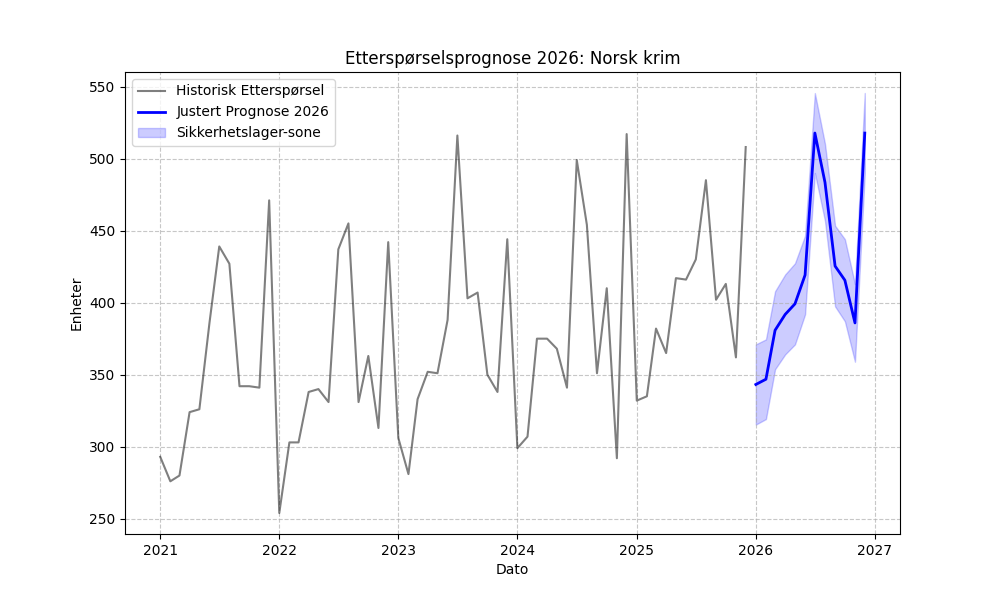
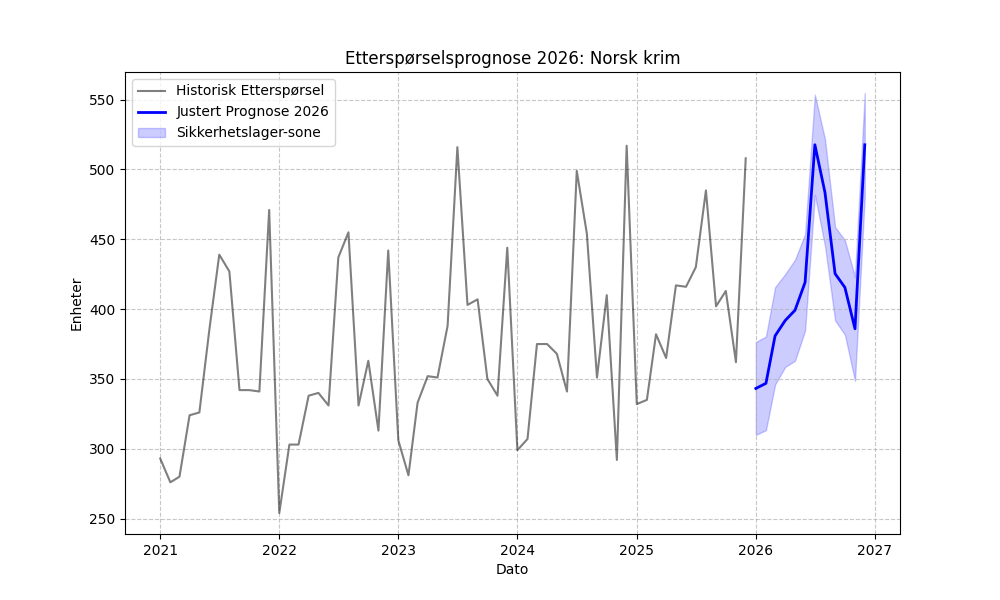
3.11 ferdig med claude, og 3.12 harmonisert med 3.11

diff --git a/004 data/python_skript/scenario_analysis_3_12.py b/004 data/python_skript/scenario_analysis_3_12.py
@@ -16,12 +16,14 @@ if not os.path.exists(OUTPUT_DIR):
 
 # 2. Last inn data
 df = pd.read_csv(DATA_PATH)
+campaigns_df = pd.read_csv(CAMPAIGN_PATH)
 rules_df = pd.read_csv(RULES_PATH)
 
 # Konverter til datetime
 df['ds'] = pd.to_datetime(df['Dato_Sortering'])
+campaigns_df['ds'] = pd.to_datetime(campaigns_df['Dato_Sortering'])
 
-# 3. Definer Helligdager (Prophet-standard)
+# 3. Definer Helligdager og Kampanjer (samme oppsett som 3.11 for at baseline skal være konsistent)
 no_holidays = holidays.Norway(years=[2021, 2022, 2023, 2024, 2025, 2026])
 christmas_dates = [pd.to_datetime(f"{year}-12-01") for year in range(2021, 2027)]
 holidays_df = pd.DataFrame({
@@ -30,6 +32,25 @@ holidays_df = pd.DataFrame({
   'lower_window': 0,
   'upper_window': 0,
 })
+
+easter_dates = []
+for h_date, name in no_holidays.items():
+    if 'Påskedag' in name and 'Andre' not in name:
+        easter_dates.append(pd.to_datetime(f"{h_date.year}-{h_date.month:02d}-01"))
+
+easter_df = pd.DataFrame({
+  'holiday': 'easter',
+  'ds': list(set(easter_dates)),
+  'lower_window': 0,
+  'upper_window': 0,
+})
+
+detected_campaigns = campaigns_df[campaigns_df['Er_Kampanje'] == True][['ds', 'Kategori']].copy()
+detected_campaigns['holiday'] = 'promo_' + detected_campaigns['Kategori'].str.replace(' ', '_')
+detected_campaigns['lower_window'] = 0
+detected_campaigns['upper_window'] = 0
+
+all_holidays = pd.concat([holidays_df, easter_df, detected_campaigns[['holiday', 'ds', 'lower_window', 'upper_window']]])
 
 # 4. Scenario-simulering
 categories = df['Kategori'].unique()
@@ -40,8 +61,13 @@ for cat in categories:
     cat_df = df[df['Kategori'] == cat].copy()
     cat_df = cat_df.rename(columns={'Etterspørsel': 'y'})
     
-    # Tren Baseline Modell
-    model = Prophet(holidays=holidays_df, yearly_seasonality=True)
+    # Tren Baseline Modell (samme konfig som 3.11)
+    model = Prophet(holidays=all_holidays,
+                    yearly_seasonality=True,
+                    weekly_seasonality=False,
+                    daily_seasonality=False,
+                    changepoint_prior_scale=0.05,
+                    interval_width=0.90)
     model.fit(cat_df)
     
     future = model.make_future_dataframe(periods=12, freq='MS')
@@ -58,8 +84,10 @@ for cat in categories:
     lift_base = rule['Gjennomsnittlig_Kampanjeloft']
     
     # --- SCENARIO 0: Baseline ---
+    # Sigma estimeres fra Prophets 90%-intervall: (yhat_upper - yhat) / 1.645.
+    # Identisk med 3.11 slik at baseline-Order_Up_To er sammenfallende.
     f26['y_base'] = f26['yhat'] + bias
-    f26['ss_base'] = (f26['yhat_upper'] - f26['yhat']) * (k_base / 1.65)
+    f26['ss_base'] = (f26['yhat_upper'] - f26['yhat']) * (k_base / 1.645)
     f26['out_base'] = f26['y_base'] + f26['ss_base']
     
     # --- SCENARIO 1: Kampanje-sjokk (+50% ekstra løft i Des og Mai) ---

diff --git a/004 data/python_skript/forecast_2026_3_11.py b/004 data/python_skript/forecast_2026_3_11.py
@@ -8,8 +8,8 @@ import os
 # 1. Konfigurasjon og sti-oppsett
 DATA_PATH = '004 data/vasket data/master_data_vasket.csv'
 CAMPAIGN_PATH = '006 analysis/milestones/M5 - Kvantitativ analyse/3.8 utvidet feature engineering/kampanje_analyse.csv'
-RULES_PATH = '006 analysis/milestones/M5 - Kvantitativ analyse/3.10_optimaliserte_regler.csv'
-OUTPUT_DIR = '006 analysis/milestones/M6-M8 - Resultater og rapport/3.11 prognoser'
+RULES_PATH = '006 analysis/milestones/M5 - Kvantitativ analyse/3.10 estimering av kampanjeløft/3.10_optimaliserte_regler.csv'
+OUTPUT_DIR = '006 analysis/milestones/M5 - Kvantitativ analyse/3.11 prognoser'
 
 if not os.path.exists(OUTPUT_DIR):
     os.makedirs(OUTPUT_DIR)
@@ -62,11 +62,15 @@ for cat in categories:
     cat_df = cat_df.rename(columns={'Etterspørsel': 'y'})
     
     # Tren på ALL historikk (2021-2025)
-    model = Prophet(holidays=all_holidays, 
-                    yearly_seasonality=True, 
-                    weekly_seasonality=False, 
+    # interval_width=0.90 gir et 90% usikkerhetsintervall (z = 1.645), slik at
+    # (yhat_upper - yhat) ≈ 1.645 * sigma. Dette gjør sikkerhetslager-formelen
+    # nedenfor mattematisk konsistent med standard SS = k * sigma.
+    model = Prophet(holidays=all_holidays,
+                    yearly_seasonality=True,
+                    weekly_seasonality=False,
                     daily_seasonality=False,
-                    changepoint_prior_scale=0.05)
+                    changepoint_prior_scale=0.05,
+                    interval_width=0.90)
     model.fit(cat_df)
     
     # Lag fremtidig tidsramme (hele 2026)
@@ -85,9 +89,9 @@ for cat in categories:
     # Påfør bias-justering på yhat
     forecast_2026['yhat_adj'] = forecast_2026['yhat'] + bias_adj
     
-    # Beregn sikkerhetslager (Safety Stock) basert på usikkerhetsintervallet fra Prophet og k-faktoren
-    # Vi bruker (yhat_upper - yhat) som et estimat på standardavviket i prognosen
-    forecast_2026['Safety_Stock'] = (forecast_2026['yhat_upper'] - forecast_2026['yhat']) * (k / 1.65) # Normalisert mot Prophet's 80% intervall
+    # Beregn sikkerhetslager (Safety Stock) basert på usikkerhetsintervallet fra Prophet og k-faktoren.
+    # (yhat_upper - yhat) / 1.645 estimerer sigma fra Prophet's 90% intervall, og multipliseres med k.
+    forecast_2026['Safety_Stock'] = (forecast_2026['yhat_upper'] - forecast_2026['yhat']) * (k / 1.645)
     
     # Beregn Bestillingspunkt (Order-up-to level)
     # Forenklet: s = (Forventet etterspørsel i ledetid) + Sikkerhetslager

diff --git a/005 report/rapport.md b/005 report/rapport.md
@@ -671,26 +671,28 @@ Tabellen nedenfor viser de forventede gjennomsnittlige verdiene per måned for 2
 
 | Kategori          | Justert etterspørsel (snitt) | Sikkerhetslager (snitt) | Bestillingspunkt (snitt) |
 |:------------------|:----------------------------:|:-----------------------:|:------------------------:|
-| Engelsk fiksjon   |            283,82            |          58,39          |          342,21          |
-| Norsk krim        |            418,90            |          27,62          |          446,52          |
-| Norske barnebøker |            290,59            |          23,41          |          314,00          |
+| Engelsk fiksjon   |            283,82            |          75,60          |          359,42          |
+| Norsk krim        |            418,90            |          35,10          |          454,00          |
+| Norske barnebøker |            290,59            |          30,26          |          320,85          |
 
-De månedlige svingningene i forventet etterspørsel og det tilhørende behovet for sikkerhetslager er visualisert i figurene 19, 20 og 21. Disse visualiseringene viser hvordan modellen proaktivt øker lagerbeholdningen i forkant av de identifiserte sesongtoppene for å opprettholde målsetningen om leveringsservice.
+Sikkerhetslageret er beregnet ved å estimere prognosens standardavvik fra Prophets 90 %-usikkerhetsintervall ($\sigma \approx (\hat{y}_{upper} - \hat{y})/1{,}645$) og deretter multiplisere med den kategoritilpassede k-faktoren fra 8.3, slik at $SS = k \cdot \sigma$.
+
+De månedlige svingningene i forventet etterspørsel og det tilhørende behovet for sikkerhetslager er visualisert i figurene 24, 25 og 26. Disse visualiseringene viser hvordan modellen proaktivt øker lagerbeholdningen i forkant av de identifiserte sesongtoppene for å opprettholde målsetningen om leveringsservice.
 
 <div align="center">
-  <img src="../006%20analysis/milestones/M6-M8%20-%20Resultater%20og%20rapport/3.11%20prognoser/prognose_2026_Engelsk_fiksjon.png" style="width: 70%; height: auto;">
+  <img src="../006%20analysis/milestones/M5%20-%20Kvantitativ%20analyse/3.11%20prognoser/prognose_2026_Engelsk_fiksjon.png" style="width: 70%; height: auto;">
   <br>
   <em>Figur 24: Prognose og sikkerhetslager for Engelsk fiksjon i 2026.</em>
 </div>
 
 <div align="center">
-  <img src="../006%20analysis/milestones/M6-M8%20-%20Resultater%20og%20rapport/3.11%20prognoser/prognose_2026_Norsk_krim.png" style="width: 70%; height: auto;">
+  <img src="../006%20analysis/milestones/M5%20-%20Kvantitativ%20analyse/3.11%20prognoser/prognose_2026_Norsk_krim.png" style="width: 70%; height: auto;">
   <br>
   <em>Figur 25: Prognose og sikkerhetslager for Norsk krim i 2026.</em>
 </div>
 
 <div align="center">
-  <img src="../006%20analysis/milestones/M6-M8%20-%20Resultater%20og%20rapport/3.11%20prognoser/prognose_2026_Norske_barnebøker.png" style="width: 70%; height: auto;">
+  <img src="../006%20analysis/milestones/M5%20-%20Kvantitativ%20analyse/3.11%20prognoser/prognose_2026_Norske_barnebøker.png" style="width: 70%; height: auto;">
   <br>
   <em>Figur 26: Prognose og sikkerhetslager for Norske barnebøker i 2026.</em>
 </div>
@@ -708,13 +710,13 @@ Tabellen nedenfor oppsummerer hvordan det gjennomsnittlige lagernivået (Order-u
 
 | Kategori | Baseline (Units) | Scenario A: Kampanje-sjokk | Scenario B: Kostnads-sjokk |
 | :--- | :---: | :---: | :---: |
-| **Engelsk fiksjon** | 409,2 | +6,8 % | -4,0 % |
-| **Norsk krim** | 451,9 | +2,3 % | -1,2 % |
-| **Norske barnebøker** | 317,2 | +2,6 % | -1,6 % |
+| **Engelsk fiksjon** | 359,7 | +7,4 % | -4,2 % |
+| **Norsk krim** | 454,0 | +2,6 % | -1,6 % |
+| **Norske barnebøker** | 320,7 | +2,9 % | -1,9 % |
 
-Analysen viser at *Engelsk fiksjon* er mest sensitiv for kampanje-sjokk, med et behov for 6,8 % økning i lagernivået for å opprettholde servicegraden. For *Norsk krim* og *Norske barnebøker* er modellen svært robust, med mindre enn 3 % endring i nødvendig beholdning selv ved ekstreme utslag. Dette gir ARK Bokhandel trygghet for at de optimaliserte reglene fra 3.10 vil fungere tilfredsstillende også i et urolig marked.
+Baseline tilsvarer det gjennomsnittlige bestillingspunktet fra 8.4 (små avvik skyldes Prophets stokastiske trekning). Analysen viser at *Engelsk fiksjon* er mest sensitiv for kampanje-sjokk, med et behov for 7,4 % økning i lagernivået for å opprettholde servicegraden. For *Norsk krim* og *Norske barnebøker* er modellen svært robust, med under 3 % endring i nødvendig beholdning selv ved ekstreme utslag. Dette gir ARK Bokhandel trygghet for at de optimaliserte reglene fra 3.10 vil fungere tilfredsstillende også i et urolig marked.
 
-De visuelle forskjellene i lagernivå for de ulike scenariene er presentert i figurene 22, 23 og 24:
+De visuelle forskjellene i lagernivå for de ulike scenariene er presentert i figurene 27, 28 og 29:
 
 <div align="center">
   <img src="../006%20analysis/milestones/M5%20-%20Kvantitativ%20analyse/3.12%20scenario-analyse/scenario_plot_Engelsk_fiksjon.png" style="width: 70%; height: auto;">

diff --git a/006 analysis/milestones/M5 - Kvantitativ analyse/3.12 scenario-analyse/3.12_scenario_oppsummering.md b/006 analysis/milestones/M5 - Kvantitativ analyse/3.12 scenario-analyse/3.12_scenario_oppsummering.md
@@ -16,17 +16,17 @@ Dette dokumentet analyserer hvordan eksterne endringer i 2026 vil påvirke lager
 
 | Kategori          |   Baseline (Units) |   Kampanje-sjokk (Units) |   Kostnads-sjokk (Units) |
 |:------------------|-------------------:|-------------------------:|-------------------------:|
-| Engelsk fiksjon   |              409.2 |                    437   |                    392.7 |
-| Norsk krim        |              451.9 |                    462.3 |                    446.3 |
-| Norske barnebøker |              317.2 |                    325.6 |                    312.1 |
+| Engelsk fiksjon   |              359.7 |                    386.2 |                    344.5 |
+| Norsk krim        |              454   |                    465.7 |                    446.9 |
+| Norske barnebøker |              320.7 |                    330   |                    314.6 |
 
 ## Prosentvis endring vs Baseline
 
 | Kategori          |   Baseline (Units) |   Kampanje-sjokk (Units) |   Kostnads-sjokk (Units) |
 |:------------------|-------------------:|-------------------------:|-------------------------:|
-| Engelsk fiksjon   |                  0 |                      6.8 |                     -4   |
-| Norsk krim        |                  0 |                      2.3 |                     -1.2 |
-| Norske barnebøker |                  0 |                      2.6 |                     -1.6 |
+| Engelsk fiksjon   |                  0 |                      7.4 |                     -4.2 |
+| Norsk krim        |                  0 |                      2.6 |                     -1.6 |
+| Norske barnebøker |                  0 |                      2.9 |                     -1.9 |
 
 ## Visualiseringer
 <div align="center">

diff --git a/006 analysis/milestones/M5 - Kvantitativ analyse/3.11 prognoser/3.11_prognose_oppsummering.md b/006 analysis/milestones/M5 - Kvantitativ analyse/3.11 prognoser/3.11_prognose_oppsummering.md
@@ -11,9 +11,9 @@ Dette dokumentet presenterer de endelige etterspørselsprognosene for 2026, base
 
 | Kategori          |   yhat_adj |   Safety_Stock |   Order_Up_To |
 |:------------------|-----------:|---------------:|--------------:|
-| Engelsk fiksjon   |     283.82 |          58.39 |        342.21 |
-| Norsk krim        |     418.9  |          27.62 |        446.52 |
-| Norske barnebøker |     290.59 |          23.41 |        314    |
+| Engelsk fiksjon   |     283.82 |          75.6  |        359.42 |
+| Norsk krim        |     418.9  |          35.1  |        454    |
+| Norske barnebøker |     290.59 |          30.26 |        320.85 |
 
 ## Visualiseringer
 <div align="center">
